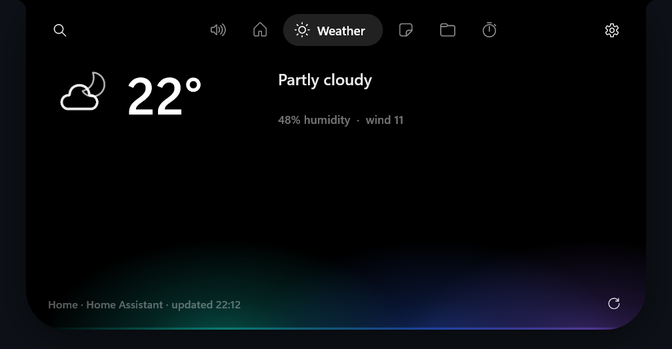
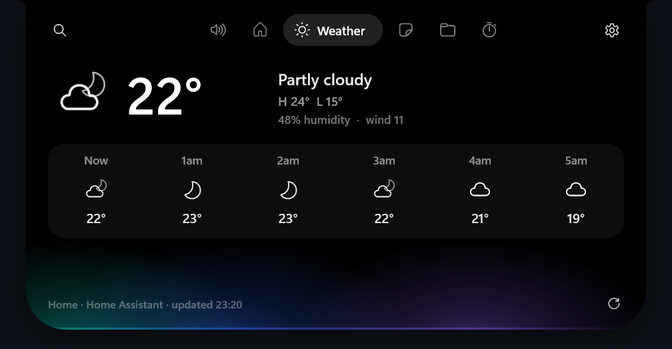
Trailer: a licensed Mixkit track cut to the beat instead of the synthesized one; a Home Assistant scene; calmer bloom. Recordings: the Home animation taps two tiles, and the stand-in Home Assistant answers forecasts, so the weather shows them

diff --git a/store/trailer/scene.js b/store/trailer/scene.js
@@ -107,7 +107,7 @@ const screenCanvas = document.createElement('canvas'); screenCanvas.width = SW; 
 const sg = screenCanvas.getContext('2d');
 const screenTex = new THREE.CanvasTexture(screenCanvas); screenTex.colorSpace = THREE.SRGBColorSpace; screenTex.anisotropy = 8;
 const SPW = 30, SPH = SPW * SH / SW;
-const screen = new THREE.Mesh(new THREE.PlaneGeometry(SPW, SPH), new THREE.MeshBasicMaterial({ map: screenTex, toneMapped: false }));
+const screen = new THREE.Mesh(new THREE.PlaneGeometry(SPW, SPH), new THREE.MeshBasicMaterial({ map: screenTex, toneMapped: false, color: 0xe2e2e2 }));
 screen.position.set(0, 0.85 + SPH / 2, 0.012);
 lid.add(screen);
 lid.rotation.x = -0.24;   // open, tipped back a little
@@ -180,7 +180,7 @@ const cards = [];
 const idx = await (await fetch('frames/index.json')).json();
 const load = src => new Promise((res, rej) => { const im = new Image(); im.onload = () => res(im); im.onerror = rej; im.src = src; });
 const clips = {};
-for (const name of ['hello', 'music', 'popups', 'downloads', 'search']) {
+for (const name of ['hello', 'music', 'popups', 'downloads', 'search', 'open']) {
   const n = idx[name].frames;
   clips[name] = await Promise.all(Array.from({ length: n }, (_, i) => load(`frames/${name}/${String(i).padStart(4, '0')}.png`)));
 }
@@ -216,15 +216,18 @@ function islandAt(t) {
     || seg(t, 12.0, 12.3, 'downloads', 24, 36) || seg(t, 12.3, 12.8, 'downloads', 36, 62) || seg(t, 12.8, 13.05, 'downloads', 62, 74)
     || seg(t, 13.05, 14.0, 'downloads', 132, 152) || seg(t, 14.0, 15.1, 'downloads', 168, 214) || seg(t, 15.1, 16.0, 'downloads', 236, 262)
     || seg(t, 16.0, 16.3, 'search', 0, 12) || seg(t, 16.3, 17.9, 'search', 12, 84) || seg(t, 17.9, 20.0, 'search', 84, 95)
-    || seg(t, 20.0, 24.0, 'music', 150, 205) || seg(t, 24.0, 31, 'music', 20, 100);
+    || seg(t, 20.0, 20.4, 'open', 8, 18) || seg(t, 20.4, 21.3, 'open', 18, 42) || seg(t, 21.3, 21.7, 'open', 42, 54) || seg(t, 21.7, 22.5, 'open', 54, 62)
+    || seg(t, 22.5, 22.9, 'open', 62, 72) || seg(t, 22.9, 24.0, 'open', 72, 108) || seg(t, 24.0, 31, 'music', 20, 100);
 }
 
 // the cursor: where it is, and when it clicks
 const cursorKeys = [
   [3.9, [2300, 1500, 0]], [4.2, [2150, 1250, 1]], [4.95, [1300, 60, 1], 'inOut'], [5.6, [1500, 420, 1]], [6.2, [1700, 760, 0]],
   [11.9, [2000, 900, 0]], [12.05, [1900, 760, 1]], [12.25, [1060, 130, 1]], [12.55, [1060, 130, 1]], [12.7, [1690, 130, 1]], [13.2, [1900, 500, 0]],
+  // Home: the Kitchen light, then the coffee maker
+  [20.3, [1750, 900, 0]], [20.6, [1650, 650, 1]], [21.25, [1395, 196, 1]], [21.75, [1395, 196, 1]], [22.45, [924, 470, 1]], [22.9, [924, 470, 1]], [23.5, [1150, 820, 0]],
 ];
-const clicks = [5.0, 12.28, 12.72];
+const clicks = [5.0, 12.28, 12.72, 21.3, 22.5];
 function drawCursor(t) {
   const [x, y, a] = keys(cursorKeys, t);
   if (a <= 0.01) return;
@@ -268,7 +271,7 @@ const CAPS = [
   { a: 8.3, b: 11.8, x: 150, y: 640, lines: ['Notifications', 'that stay out of the way.'], sub: 'Messages, calls, songs and devices, in one pill.' },
   { a: 12.3, b: 15.8, x: 150, y: 640, lines: ['Paste a link.', 'Get the video.'], sub: 'From YouTube and most sites. Or convert to MP3, MP4 or GIF.' },
   { a: 17.05, b: 19.8, x: 150, y: 640, lines: ['Everything,', 'one keystroke away.'], sub: 'Math, apps, files and commands on Alt+Space.' },
-  { a: 20.3, b: 23.8, x: 150, y: 640, lines: ['Your whole day,', 'a click away.'], sub: 'Home, weather, notes and timers.' },
+  { a: 20.3, b: 23.8, x: 150, y: 640, lines: ['Your home,', 'one click away.'], sub: 'Lights, scenes, climate and locks from Home Assistant.' },
 ];
 for (const c of CAPS) {
   const el = document.createElement('div'); el.className = 'caption'; el.style.left = c.x + 'px'; el.style.top = c.y + 'px';
@@ -312,17 +315,19 @@ const shots = [
   [8.0, F(21, 1.6, -0.25)], [11.8, F(19, 1.6, -0.3), 'sine'],
   [12.0, F(31, 5.2)], [12.95, F(30, 5.2), 'sine'], [13.25, F(18, 1.4), 'out'], [15.0, F(16.5, 1.4), 'sine'], [15.35, F(31, 5.2), 'out'], [15.8, F(30, 5.2), 'sine'],
   [16.0, F(42, 7, -0.24)], [19.8, F(36, 6, -0.24), 'sine'],
+  [20.0, F(31, 5.6)], [23.8, F(28.5, 5.6), 'sine'],
 ];
 const camPos = [[0, I(-55, 4, 118)], ...shots.map(([t, f, e]) => [t, f.pos, e]),
-  [20.0, M(-12, 4, 96)], [23.8, M(-22, 2, 88), 'sine'], [24.0, M(-12, 22, 92)], [30, M(0, 40, 128), 'inOut']];
+  [24.0, M(-12, 22, 92)], [30, M(0, 40, 128), 'inOut']];
 const camLook = [[0, M(0, 0, 0)], ...shots.map(([t, f, e]) => [t, f.look, e]),
-  [20.0, M(-6, 13, 0)], [23.8, M(-6, 13, 0)], [24.0, M(0, 16, 0)], [30, M(0, 19, 0)]];
+  [24.0, M(0, 16, 0)], [30, M(0, 19, 0)]];
 
 // ---- post: a bloom so the glow and the screen light the air a little ----------------------------------------
 const composer = new EffectComposer(renderer);
 composer.setPixelRatio(1); composer.setSize(W, H);
 composer.addPass(new RenderPass(scene, camera));
-const bloom = new UnrealBloomPass(new THREE.Vector2(W, H), 0.55, 0.65, 0.78);
+// only what's truly bright glows: white tiles and covers stay readable
+const bloom = new UnrealBloomPass(new THREE.Vector2(W, H), 0.5, 0.6, 0.93);
 composer.addPass(bloom);
 composer.addPass(new OutputPass());
 
@@ -331,7 +336,7 @@ const logo = document.getElementById('logo'), fade = document.getElementById('fa
 const cardSpots = [[-24, 17, 30, 0.3], [-6, 23, 22, 0.1], [13, 23, 22, -0.1], [31, 17, 30, -0.3]];
 window.render = t => {
   // the laptop turns slowly, settles, and leans away at the end
-  laptop.rotation.y = keys([[0, [0.55]], [4, [0.06]], [8, [0.02]], [12, [-0.02]], [16, [0.12]], [20, [0.18]], [24, [0.05]], [30, [0]]], t)[0];
+  laptop.rotation.y = keys([[0, [0.55]], [4, [0.06]], [8, [0.02]], [12, [-0.02]], [16, [0.12]], [20, [0.04]], [24, [0.05]], [30, [0]]], t)[0];
   laptop.position.y = Math.sin(t * 0.8) * 0.35;
   drawScreen(t);
   // motes drift up
@@ -358,7 +363,7 @@ window.render = t => {
   }
   cards.forEach((m, i) => {
     const t0 = 20.25 + i * 1.0, k = ease.out(span(t, t0, t0 + 0.75)), out = ease.in(span(t, 23.85, 24.35));
-    m.visible = t >= t0 && t < 24.4;
+    m.visible = false;
     const [x, y, z, ry] = cardSpots[i];
     // an arc: from behind and below the camera, curving into place
     m.position.set(mid.x + lerp(x * 1.8, x, k), mid.y + lerp(y - 26, y, k) + Math.sin(k * Math.PI) * 9 + 30 * out, mid.z + lerp(z + 40, z, k));
@@ -370,7 +375,7 @@ window.render = t => {
   const cp = keys(camPos, t), cl = keys(camLook, t);
   camera.position.set(cp[0] + Math.sin(t * 0.7) * 0.4, cp[1] + Math.sin(t * 0.9) * 0.3, cp[2]);
   camera.lookAt(cl[0], cl[1], cl[2]);
-  bloom.strength = 0.55 + 0.35 * Math.max(0, 1 - span(t, 24, 25.2)) * (t >= 24 ? 1 : 0);
+  bloom.strength = 0.5 + 0.3 * Math.max(0, 1 - span(t, 24, 25.2)) * (t >= 24 ? 1 : 0);
   // words, the logo and the fades
   drawCaptions(t);
   const lg = ease.out(span(t, 24.4, 25.3));

diff --git a/tools/readme-media/stub_ha.py b/tools/readme-media/stub_ha.py
@@ -6,7 +6,9 @@ the island's real HTTP code runs without any real home behind it.
 
   python stub_ha.py <states.json> <port> <calls.log>
 """
-import json, sys, threading
+import json
+import sys, threading
+from datetime import datetime, timedelta
 from http.server import BaseHTTPRequestHandler, ThreadingHTTPServer
 
 
@@ -58,7 +60,16 @@ def serve(states_path, port, log_path):
                         elif svc == "set_hvac_mode" and "hvac_mode" in body: s["state"] = body["hvac_mode"]
                         if "brightness_pct" in body: s["attributes"]["brightness"] = int(body["brightness_pct"] * 2.55)
                 if parts[3] == "weather":
-                    return self.send(200, {"service_response": {}})
+                    # what a real Home Assistant answers: a week by day, the next hours by hour
+                    kind = body.get("type", "daily")
+                    now = datetime.now().astimezone().replace(minute=0, second=0, microsecond=0)
+                    if kind == "hourly":
+                        temps, conds = [22, 23, 23, 22, 21, 19, 18, 17], ["partlycloudy", "sunny", "sunny", "partlycloudy", "cloudy", "cloudy", "clear-night", "clear-night"]
+                        fc = [{"datetime": (now + timedelta(hours=i + 1)).isoformat(), "temperature": t, "condition": c} for i, (t, c) in enumerate(zip(temps, conds))]
+                    else:
+                        fc = [{"datetime": (now + timedelta(days=i)).isoformat(), "temperature": hi, "templow": lo, "condition": c}
+                              for i, (hi, lo, c) in enumerate([(24, 15, "partlycloudy"), (26, 16, "sunny"), (21, 14, "rainy"), (22, 13, "cloudy")])]
+                    return self.send(200, {"service_response": {eid if isinstance(eid, str) else "weather.home": {"forecast": fc}}})
                 return self.send(200, [])
             self.send(404, {})
 

diff --git a/tools/readme-media/record_all.py b/tools/readme-media/record_all.py
@@ -21,7 +21,7 @@ PY = sys.executable
 VIDEO = "https://www.youtube.com/watch?v=jNQXAC9IVRw"   # the first video on YouTube, 19 s
 JOBS = [
     ("hello", "hello", 5, 0, 30, False, ["--padx", "260", "--scale", "1"], ""),
-    ("open", "expand:home", 4.5, 1.2, 30, False, [], ""),
+    ("open", "expand:home;ha:light.kitchen@1.9;ha:switch.coffee_maker@3.1", 6.5, 1.2, 30, False, [], ""),
     ("music", "rest;expand:media@3;next@6.2", 10.5, 0.6, 30, False, [], "media"),
     ("popups", "popups:11,13,12,0,14", 21, 1.5, 20, False, [], ""),
     ("downloads", f"download:{VIDEO};rest@6;expand:shelf@13.5", 16, 0.8, 25, False, [], "tools"),

diff --git a/store/trailer/frames.py b/store/trailer/frames.py
@@ -5,7 +5,7 @@ import json
 from pathlib import Path
 from PIL import Image
 
-ASSETS = Path(__file__).resolve().parents[2] / "assets" / "readme"
+ASSETS = Path(r"C:\Users\Scriptily\Documents\dirs\isola-notch\assets\readme")
 OUT = Path(__file__).resolve().parent / "frames"
 BG = (13, 17, 23)
 
@@ -26,7 +26,7 @@ def key(im):
 
 
 index = {}
-for clip in ("hello", "music", "popups", "downloads", "search"):
+for clip in ("hello", "music", "popups", "downloads", "search", "open"):
     im = Image.open(ASSETS / f"{clip}-dark.webp")
     d = OUT / clip
     d.mkdir(parents=True, exist_ok=True)

diff --git a/src/Island/Island.cs b/src/Island/Island.cs
@@ -648,6 +648,8 @@ public sealed partial class Island
         else if (head == "rest") SetMode(Mode.Rest, "showcase");
         // "next": the next track (ShowcaseMedia), for the track change
         else if (head == "next") Svc?.Media?.Next();
+        // "ha:light.kitchen": a Home Assistant tile tapped, exactly as a click taps it
+        else if (head == "ha" && Svc?.Ha?.Entities.TryGetValue(arg, out var ent) == true) Svc.Ha.Tap(ent);
         else if (head == "search")
         {
             SetMode(Mode.Search, "showcase");

diff --git a/store/trailer/README.md b/store/trailer/README.md
@@ -1,10 +1,17 @@
 # Store trailer
 
 A 30-second trailer for the Store listing: a 3D laptop (Three.js) with the
-README's real recordings on its screen, captions, and an original soundtrack
-made with the sound lab's synthesizer (`music.mjs`, 120 BPM, every scene change
-on a downbeat). Rendered frame by frame in a headless Edge, so the timing is
-exact on any machine.
+README's real recordings on its screen, captions, and a soundtrack cut to it.
+Rendered frame by frame in a headless Edge, so the timing is exact on any
+machine.
+
+The music is "Ramp It Up" from Mixkit (https://mixkit.co/free-stock-music/,
+track 69), under the Mixkit Stock Music Free License: free for commercial use,
+including online ads, with no attribution. That license doesn't allow sharing
+the track on its own, so it isn't in the repository: download it as
+`tracks/69.mp3`. It runs at 120 BPM (119.84, nudged 0.13%); started 11.617 s
+in, its drop lands on the first cut at 4 s and every scene change after is
+on a downbeat.
 
 ```powershell
 python tools\readme-media\record_all.py           # the recordings it uses (dark versions)
@@ -12,9 +19,9 @@ cd store\trailer
 python frames.py                                   # the recordings as frames, backdrop keyed out
 # Three.js 0.169.0 into lib\ (build\three.module.js and the examples\jsm files scene.js imports)
 # and the Store badge: https://get.microsoft.com/images/en-us%20dark.svg as store-badge.svg
-node music.mjs                                     # music.wav
+ffmpeg -i tracks9.mp3 -af "atrim=start=11.617,asetpts=PTS-STARTPTS,atempo=1.00134,atrim=end=30,afade=t=in:d=0.4,afade=t=out:st=27:d=3:curve=qsin,highshelf=f=7000:g=-3,loudnorm=I=-16:TP=-1.5:LRA=11,volume=-2dB" -ar 48000 music.wav
 node capture.mjs 60 0 30                           # out\00000.png ...
-ffmpeg -framerate 60 -i out\%05d.png -i music.wav -af "equalizer=f=4000:t=q:w=1.2:g=2.5,alimiter=limit=0.9" -c:v libx264 -preset slow -crf 15 -pix_fmt yuv420p -movflags +faststart -c:a aac -b:a 320k -shortest isola-trailer.mp4
+ffmpeg -framerate 60 -i out\%05d.png -i music.wav -c:v libx264 -preset slow -crf 15 -pix_fmt yuv420p -movflags +faststart -c:a aac -b:a 320k -shortest isola-trailer.mp4
 ```
 
 `node capture.mjs still 5 12.5 ...` renders single frames to `stills\` for checking.

diff --git a/README.md b/README.md
@@ -32,7 +32,7 @@ happening as it happens (a notification, a call, a song, your AirPods
 connecting) and opens into a dashboard when you click it. Press `Alt+Space`
 and it turns into a launcher.
 
-<p align="center"><picture><source media="(prefers-color-scheme: dark)" srcset="assets/readme/open-dark.webp"><img src="assets/readme/open-light.webp" alt="The island opening into the Home dashboard" width="651"></picture></p>
+<p align="center"><picture><source media="(prefers-color-scheme: dark)" srcset="assets/readme/open-dark.webp"><img src="assets/readme/open-light.webp" alt="The island opening into the Home dashboard, then turning on the kitchen light and the coffee maker" width="651"></picture></p>
 
 ## Light on your computer
 
